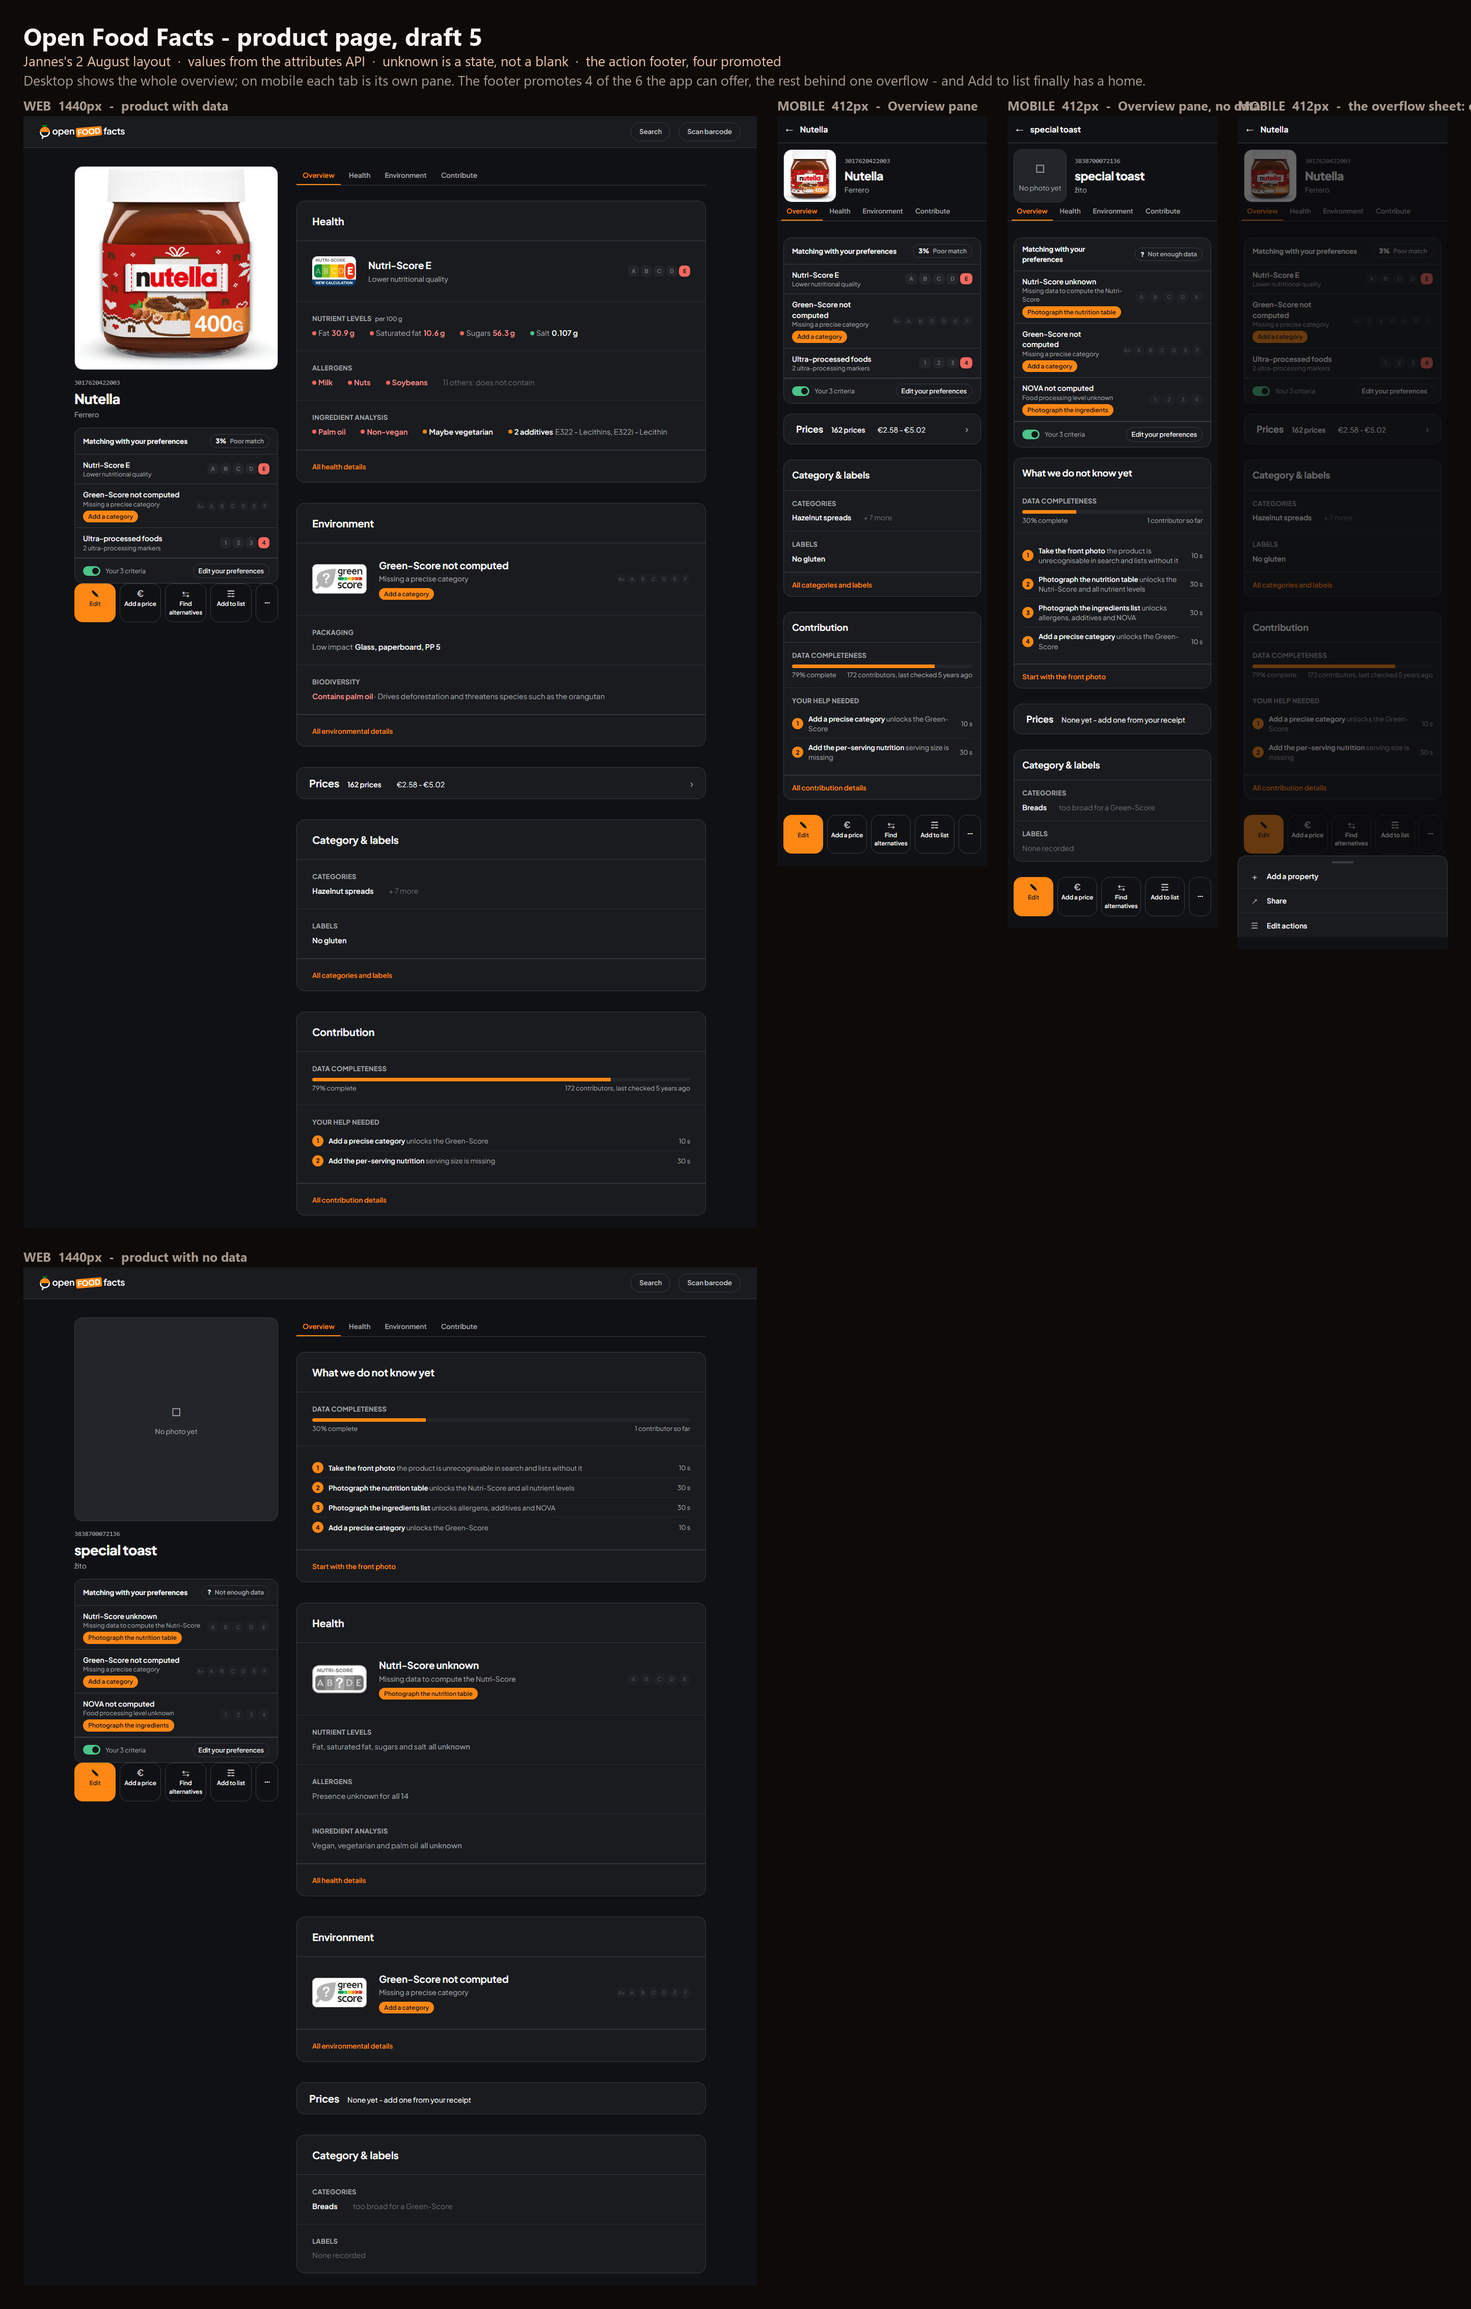
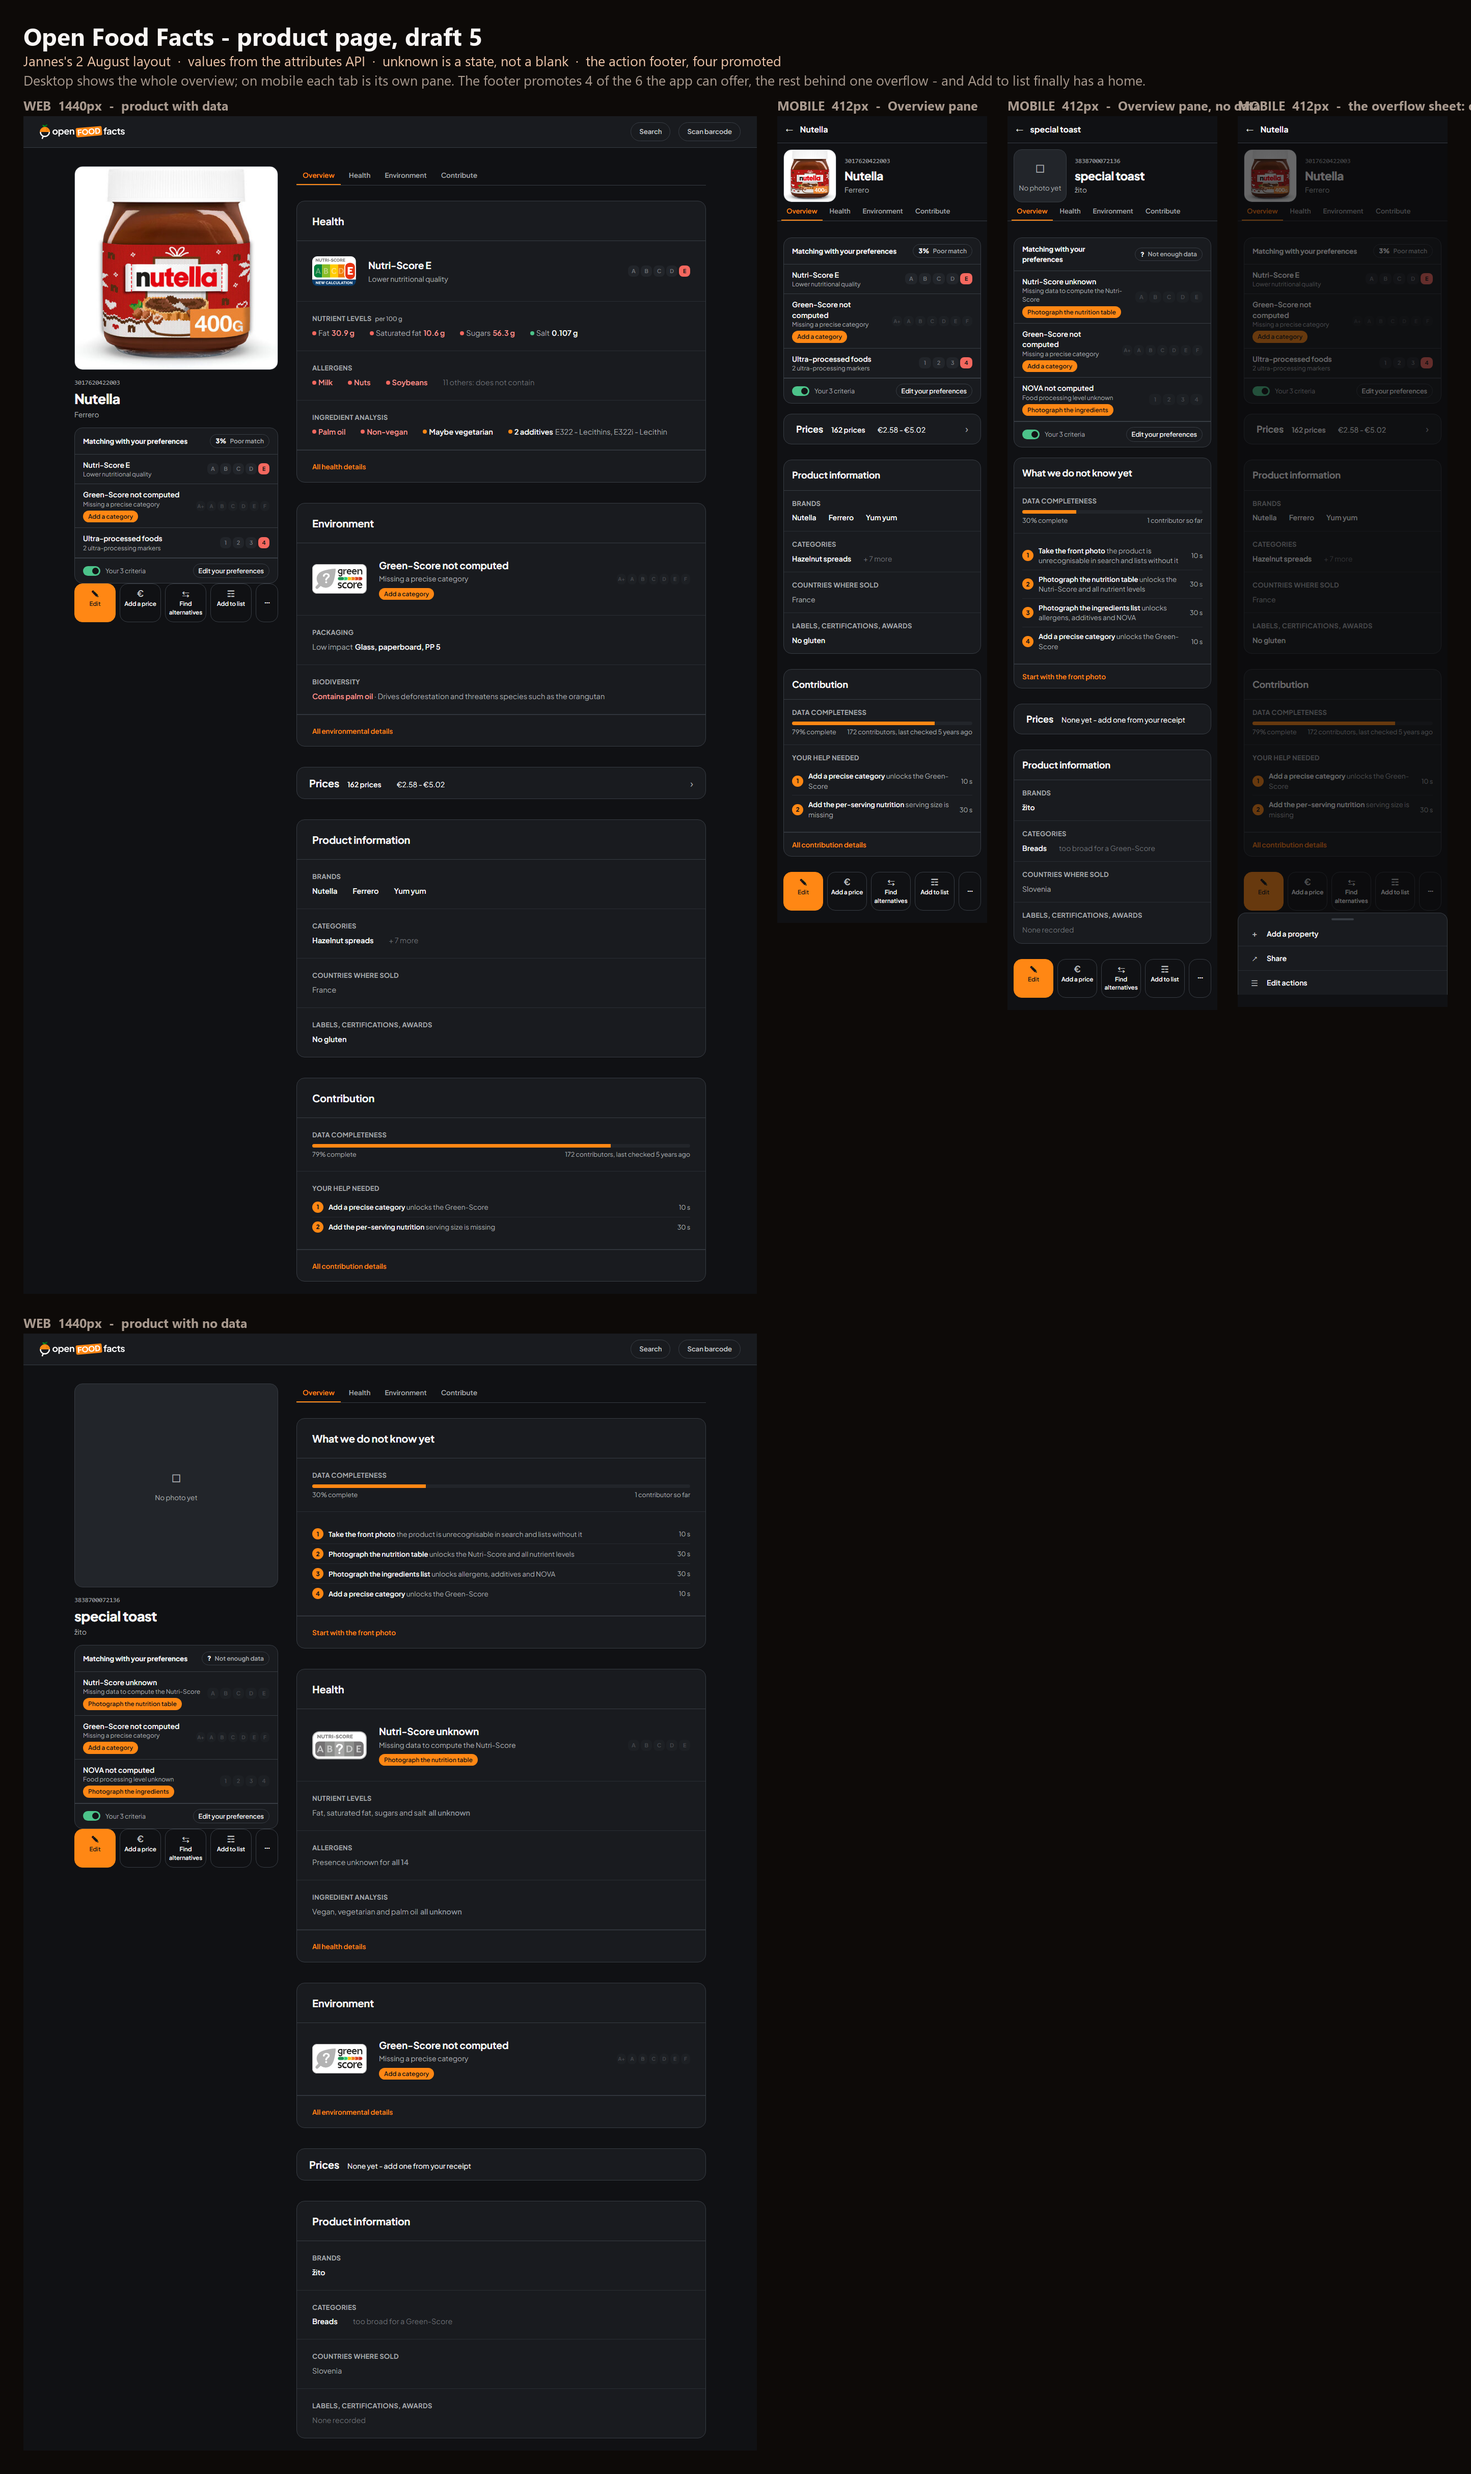
the food product page adopts the panel's own Product information tile, and the three non-food pages gain their categories row

diff --git a/07-scan-states/scan-other-vertical.html b/07-scan-states/scan-other-vertical.html
@@ -41,9 +41,8 @@
           </div>
         </div>
 
-        <p class="note">This barcode is a <b>cosmetic</b>, so it lives in
-           Open&nbsp;Beauty&nbsp;Facts rather than here. The record is already there, with 89% of
-           its data filled in.</p>
+        <p class="note"><b>This barcode is a cosmetic.</b>
+           <span>It lives in Open Beauty Facts rather than here, and the record is already there, with 89% of its data filled in.</span></p>
       </div>
       <a class="cfoot" href="../22-verticals/product-beauty.html">
         <span>Open it in Open Beauty Facts</span>

diff --git a/22-verticals/product-petfood.html b/22-verticals/product-petfood.html
@@ -150,6 +150,11 @@
           <div class="sub">Brands</div>
           <div class="vals"><span><b>PEDIGREE</b></span></div>
         </div>
+        
+        <div class="grp">
+          <div class="sub">Categories</div>
+          <div class="vals"><span><b>dog biscuit</b></span><span class="more">+ 4 more</span></div>
+        </div>
         <div class="grp">
           <div class="sub">Countries where sold</div>
           <div class="vals"><span>France</span><span>Italy</span><span>Spain</span></div>

diff --git a/22-verticals/product-other.html b/22-verticals/product-other.html
@@ -149,6 +149,10 @@
           <div class="vals"><span><b>Gauloises</b></span></div>
         </div>
         <div class="grp">
+          <div class="sub">Categories</div>
+          <div class="vals"><span><b>Cigarettes</b></span><span class="more">+ 1 more</span></div>
+        </div>
+        <div class="grp">
           <div class="sub">Countries where sold</div>
           <div class="vals"><span>Morocco</span></div>
         </div>

diff --git a/22-verticals/product-beauty.html b/22-verticals/product-beauty.html
@@ -153,6 +153,7 @@
           <div class="sub">Brands</div>
           <div class="vals"><span><b>CeraVe</b></span></div>
         </div>
+        
         <div class="grp">
           <div class="sub">Countries where sold</div>
           <div class="vals"><span>France</span><span>Morocco</span><span>Romania</span></div>
